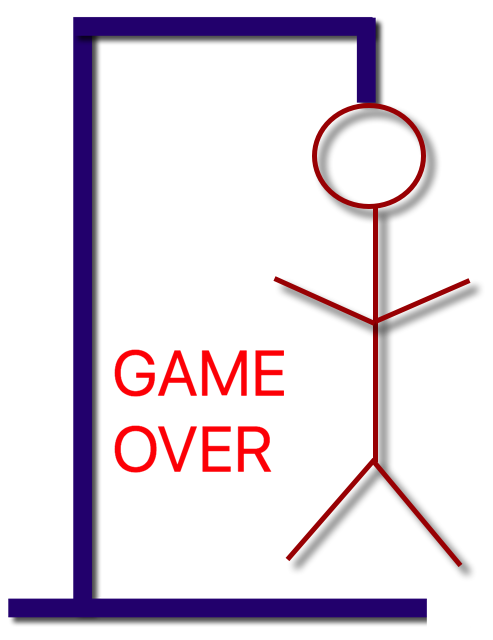
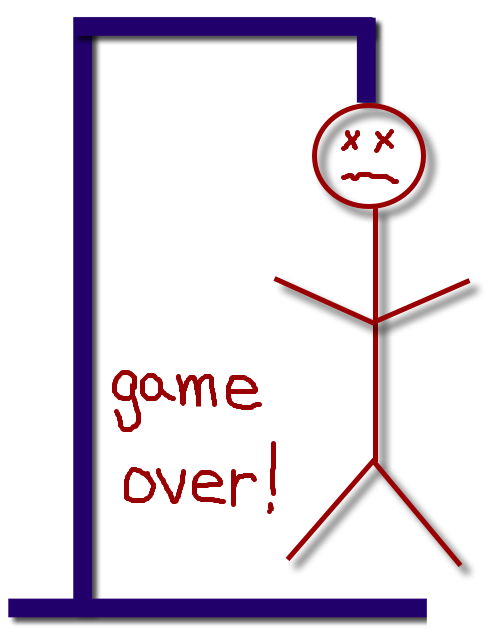
added functions and youtube embedding

Changed region(s): [[0.213, 0.5312, 0.5781, 0.8125], [0.6998, 0.1875, 0.7911, 0.2812], [0.7911, 0.2812, 0.8215, 0.3125]]

diff --git a/assets/javascript/game.js b/assets/javascript/game.js
@@ -5,22 +5,35 @@
 			var cities = ["Florence", "Melbourne", "Beijing", "Dallas", "Edinburgh", "San Francisco", "New South Wales",
 				"Llanfairpwllgwyngyllgogerychwyrndrobwllllantysiliogogogoch"];
 
+			var cities = ["Llanfairpwllgwyngyllgogerychwyrndrobwllllantysiliogogogoch"];
+
+			var imgArray = new Array ();
+
+			for (i = 0; i < 7; i++) {
+				imgArray[i] = new Image();
+				imgArray[i].src = "assets/images/gallows" + i + ".png"; 
+			}
+
 				//https://www.youtube.com/watch?v=fHxO0UdpoxM
 
 				//<iframe width="560" height="315" src="https://www.youtube.com/embed/fHxO0UdpoxM" frameborder="0" allowfullscreen></iframe>
 
 			var currGame = cities[Math.floor(Math.random()*cities.length)];
 			var lowerGame = currGame.toLowerCase();
-			console.log(lowerGame);
 			var solution = [];
 			var usedLetters = [];					
 			var numberWrong = 0;
 			var guess = "";
 			var displaySolution = $(".gameBoard");
-			var displayLetters = $(".letterTracker");
+			$(displaySolution).attr("class", "usedHeader");
+			var displayLetters = $("<p>");
+			$(displayLetters).attr("class", "letterTracker");
 			var gameOver = "no";
+			var currentHangman = "";
+			var currentHangmanImage = $(".hangman");
 
 			$(".resetButton").on("click", function() {
+     			$(".usedArea").empty();
      			startGame()
           	});
 			
@@ -30,18 +43,22 @@
 			function startGame() {
 				currGame = cities[Math.floor(Math.random()*cities.length)];
 				lowerGame = currGame.toLowerCase();
-				console.log(lowerGame);
+				currentHangmanImage.attr("src", imgArray[0].src);
 				solution = [];
 				usedLetters = [];					
 				numberWrong = 0;
 				guess = "";
-				var gameOver = "no";
-				$(displayLetters).html(usedLetters.sort().join("\xa0\xa0"));
+				gameOver = "no";
+				letterHeader = $("<h1>Letters Used</h1>"); 
+				$(".usedArea").append(letterHeader);
+				displayLetters.html(showUsedLetters())	
+				$(".usedArea").append(displayLetters);
+				showUsedLetters();
 
 	
 				//loops through the challenge word and sets the solution variable to underscores
 				//to display to the user as unsolved letters.
-				for (i = 0; i < currGame.length; i++) {
+				for (var i = 0; i < currGame.length; i++) {
 					if (currGame[i] === " "){
 						solution[i] = "\xa0\xa0";
 					}
@@ -49,16 +66,34 @@
 						solution[i] = "_";
 					}
 				};
-
-
-				
-				$(displaySolution).html(solution.join("\xa0"));
-				console.log(solution.join("\xa0"));
-
-
-				console.log(solution.indexOf("_"));
-			}
+				showSolution();
+			};
 			
+
+			function showUsedLetters() {
+				// $(displayLetters).html(usedLetters.sort().join("\xa0\xa0"));
+				$(displayLetters).html(usedLetters.sort().join("\xa0\xa0"));
+			}
+
+			function showSolution() {
+				if (solution.length > 20) {
+					$(displaySolution).attr("class", "longSolution");
+				}
+
+				else {
+					$(displaySolution).attr("class", "shortSolution");
+				}
+
+				$(displaySolution).html(solution.join("\xa0"));
+			};
+
+			// function updateHangman() {
+			// 	if (numberWrong) == 0 {
+
+			// 	} else if (numberWrong == 1) {
+
+			// 	}
+			// }
 
 
 
@@ -75,13 +110,12 @@
 
 
 				
-					document.onkeyup = function(event) {
+			document.onkeyup = function(event) {
 
-		                var guess = event.key;
-		                console.log(guess);
-		                checkLetter(guess);
-		            }
-		          
+                guess = event.key;
+                checkLetter(guess);
+            }
+	          
 
 
 				//get guess from user.  Change this to onKeyUp in final
@@ -92,64 +126,78 @@
 				//display the array to the user in alphabetical order
 				//if it is already part of that array, ignore it and move to the next if statement
 			
-				function checkLetter(letter) {
+			function checkLetter(letter) {
 
 
-				//check to see if the guess is part of the goal word and also
-					//check to see if the letter has been guessed before
-				//if it is not, add 1 to the numberWrong variable 
-				//(and draw the next piece of the stick-figure)
 
-					if (lowerGame.indexOf(letter.toLowerCase()) == -1 && usedLetters.indexOf(letter.toUpperCase()) === -1) {
-						numberWrong++;
-						usedLetters.push(letter.toUpperCase());
-						console.log(usedLetters.sort());
-						$(displayLetters).html(usedLetters.sort().join("\xa0\xa0"));
-						console.log("Wrong  " + solution.join(" "));
-						console.log("misses: " + numberWrong);
-					}
+			//check to see if the guess is part of the goal word and also
+				//check to see if the letter has been guessed before
+			//if it is not, add 1 to the numberWrong variable 
+			//(and draw the next piece of the stick-figure)
 
-					else if (usedLetters.indexOf(letter.toUpperCase()) === -1) {
+				if (gameOver === "no" && lowerGame.indexOf(letter.toLowerCase()) == -1 && usedLetters.indexOf(letter.toUpperCase()) === -1) {
+					numberWrong++;
+					usedLetters.push(letter.toUpperCase());
+					showUsedLetters();
+				}
 
-						usedLetters.push(letter.toUpperCase());
-						$(displayLetters).html(usedLetters.sort().join("\xa0\xa0"));
-						console.log(usedLetters.sort());
-						console.log(numberWrong);
+				else if (gameOver === "no" && usedLetters.indexOf(letter.toUpperCase()) === -1) {
 
-				//if the guess is part of the goal word, update the solution array
-				//everywhere the letter appears.
+					usedLetters.push(letter.toUpperCase());
+					showUsedLetters();
 
-						for (i = 0; i < solution.length; i++) {
-							if (lowerGame[i] === letter.toLowerCase()) {
-								solution[i] = currGame[i];
-							}
+
+			//if the guess is part of the goal word, update the solution array
+			//everywhere the letter appears.
+
+					for (var i = 0; i < solution.length; i++) {
+						if (lowerGame[i] === letter.toLowerCase()) {
+							solution[i] = currGame[i];
 						}
-
 					}
 
-				//after all locations are updated, display the updated solution
-				//to the user.
-				$(displaySolution).html(solution.join("\xa0"));
-				console.log(solution.join("\xa0"));
+				}
 
+			//after all locations are updated, display the updated solution
+			//to the user.
 
+				showSolution();
 
-				//check number of incorrect guesses to determine if the user has lost the game
-					if (numberWrong === 6) {
-						var replay = alert("You Lose! Click OK to play again!");
-						gameOver = "lose";
+			//show hangman image based on number of wrong guesses
+				currentHangmanImage.attr("src", imgArray[numberWrong].src);
 
-						
-					};
+			//if game is over, update gameOver variable. If game was won, display won image
+				if (numberWrong == 6) {
+					gameOver = "loss";
+					// console.log(currGame);
 
-
-				//check solution to see if user has guessed all letters and won the game
-					if (solution.indexOf("_") === -1) {
-					console.log(solution.join("\xa0"));alert("You Win!")
+				} else if (solution.indexOf("_") === -1) {
 					gameOver = "win";
-					};
-				};
-			
+					currentHangmanImage.attr("src", "assets/images/gallowsWin.png");
+					}
+
+
+
+				if (gameOver != "no" && currGame === "Llanfairpwllgwyngyllgogerychwyrndrobwllllantysiliogogogoch") {
+					
+						$(".usedArea").empty();
+						youtubeLongestCity();
+					}
+ 			};
+
+
+ 			function youtubeLongestCity() {
+ 						videoDiv = $("<iframe>");
+						// videoDiv.attr("width", "800", "height", "600", "src", "https://www.youtube.com/embed/fHxO0UdpoxM", "frameborder", "0", "allowfullscreen");
+						videoDiv.attr({
+							src: "https://www.youtube.com/embed/fHxO0UdpoxM",
+							width: "600",
+							height: "400",
+							frameborder: "0",
+							allowfullscreen: ""});
+						// videoDiv.attr("width", "800");
+						$(".usedArea").append(videoDiv);
+ 			}
 		});
 
 	

diff --git a/index.html b/index.html
@@ -34,7 +34,7 @@
 	<div class="row">
 		<div class="col-md-3 gallows">
 			<div class="row">
-				<img src="assets/images/gallows.png" alt="hangman">
+				<img class = "hangman" alt="hangman">
 			</div>
 			<div class="row">
 				<button class="btn btn-info btn-lg resetButton">Start New Game</button>
@@ -44,9 +44,10 @@
 			<div class="row">
 				<h1 class="gameBoard"></h1>
 			</div>
-			<div class="row">
-				<h1>Letters Used:</h1>
-				<p class = "letterTracker"></p>
+			<div class="row usedArea">
+<!-- 				<iframe width='800' height='600' src="https://www.youtube.com/embed/fHxO0UdpoxM" frameborder="0" allowfullscreen></iframe> -->
+				<!-- <h1>Letters Used:</h1> -->
+				<!-- <p class = "letterTracker"></p> -->
 			</div>
 		</div>
 	</div>

diff --git a/assets/css/custom.css b/assets/css/custom.css
@@ -1,17 +1,12 @@
 
 
 .gallows {
-	border-style: solid;
-	border-right-width: 2px;
+
 }
 .gallows img{
 	width: 100%
 }
 
-.test2 {
-	border-style: solid;
-	border-color: black;
-}
 
 
 .jumbotron h1, p {
@@ -40,6 +35,15 @@
 .resetButton {
 	width: 85%;
 }
+
+.longSolution {
+	font-size: 20px;
+}
+
+p {
+	font-size: 24px;
+}
+
 
 
 
